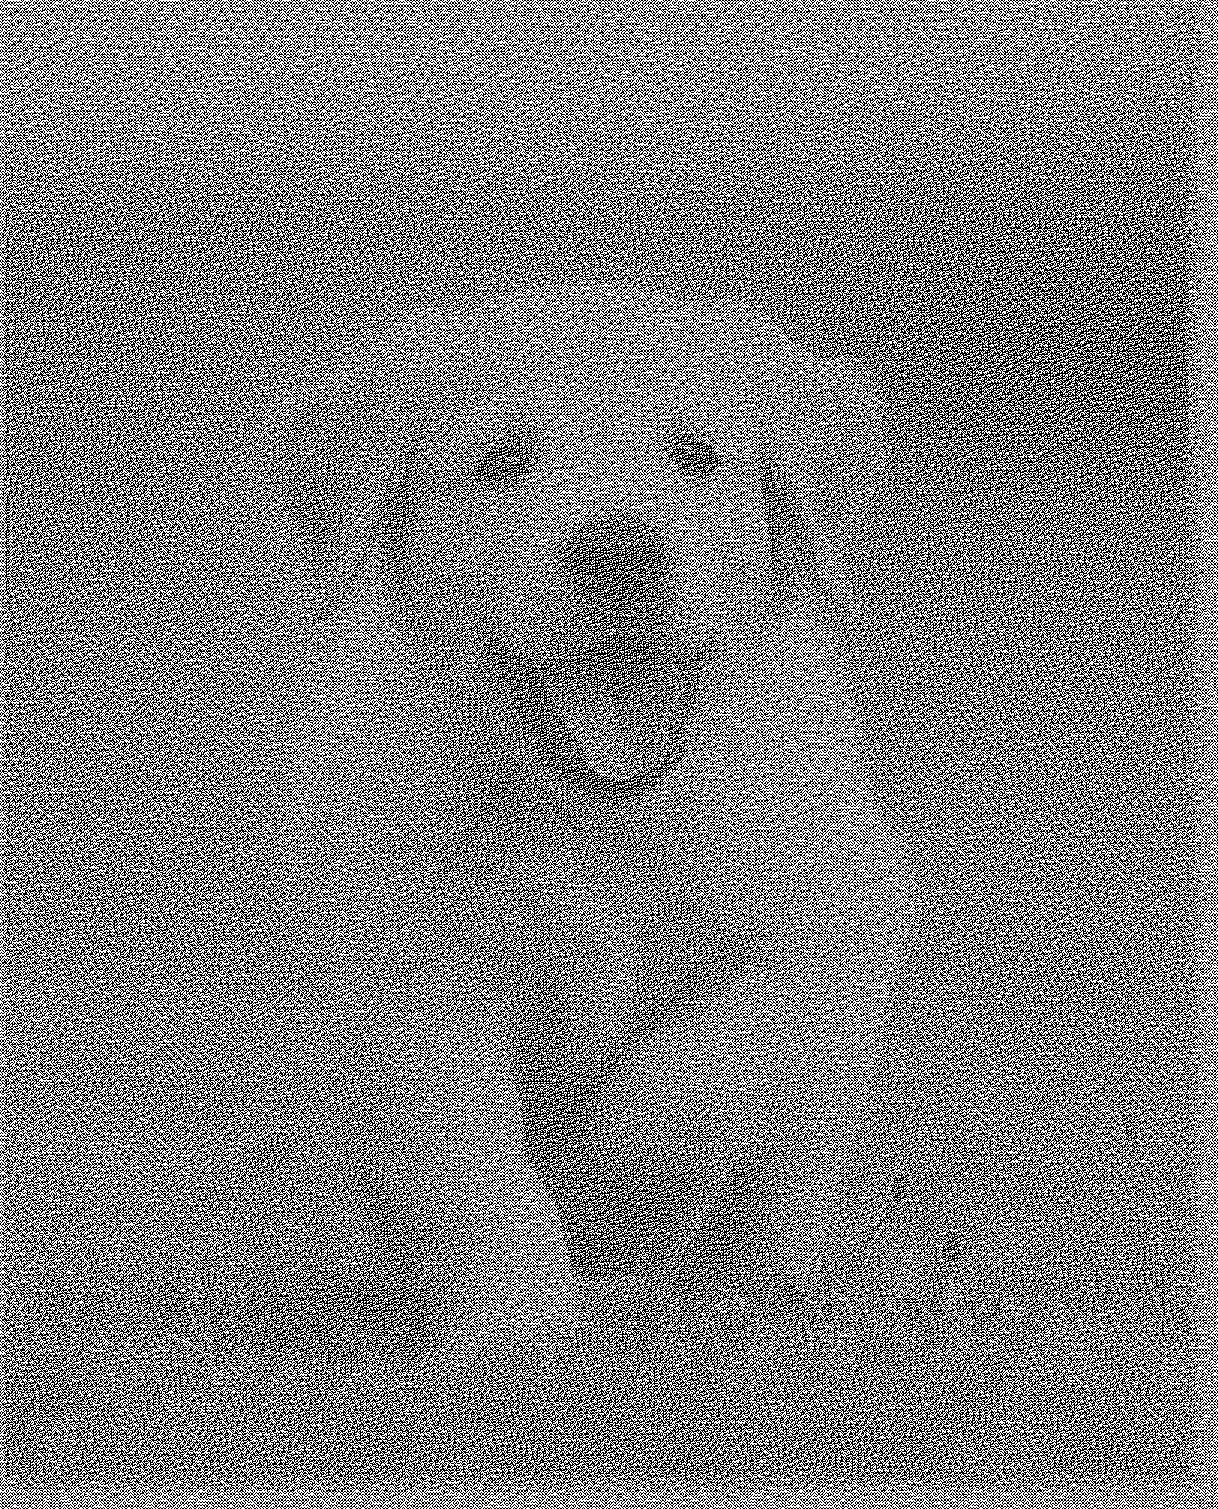
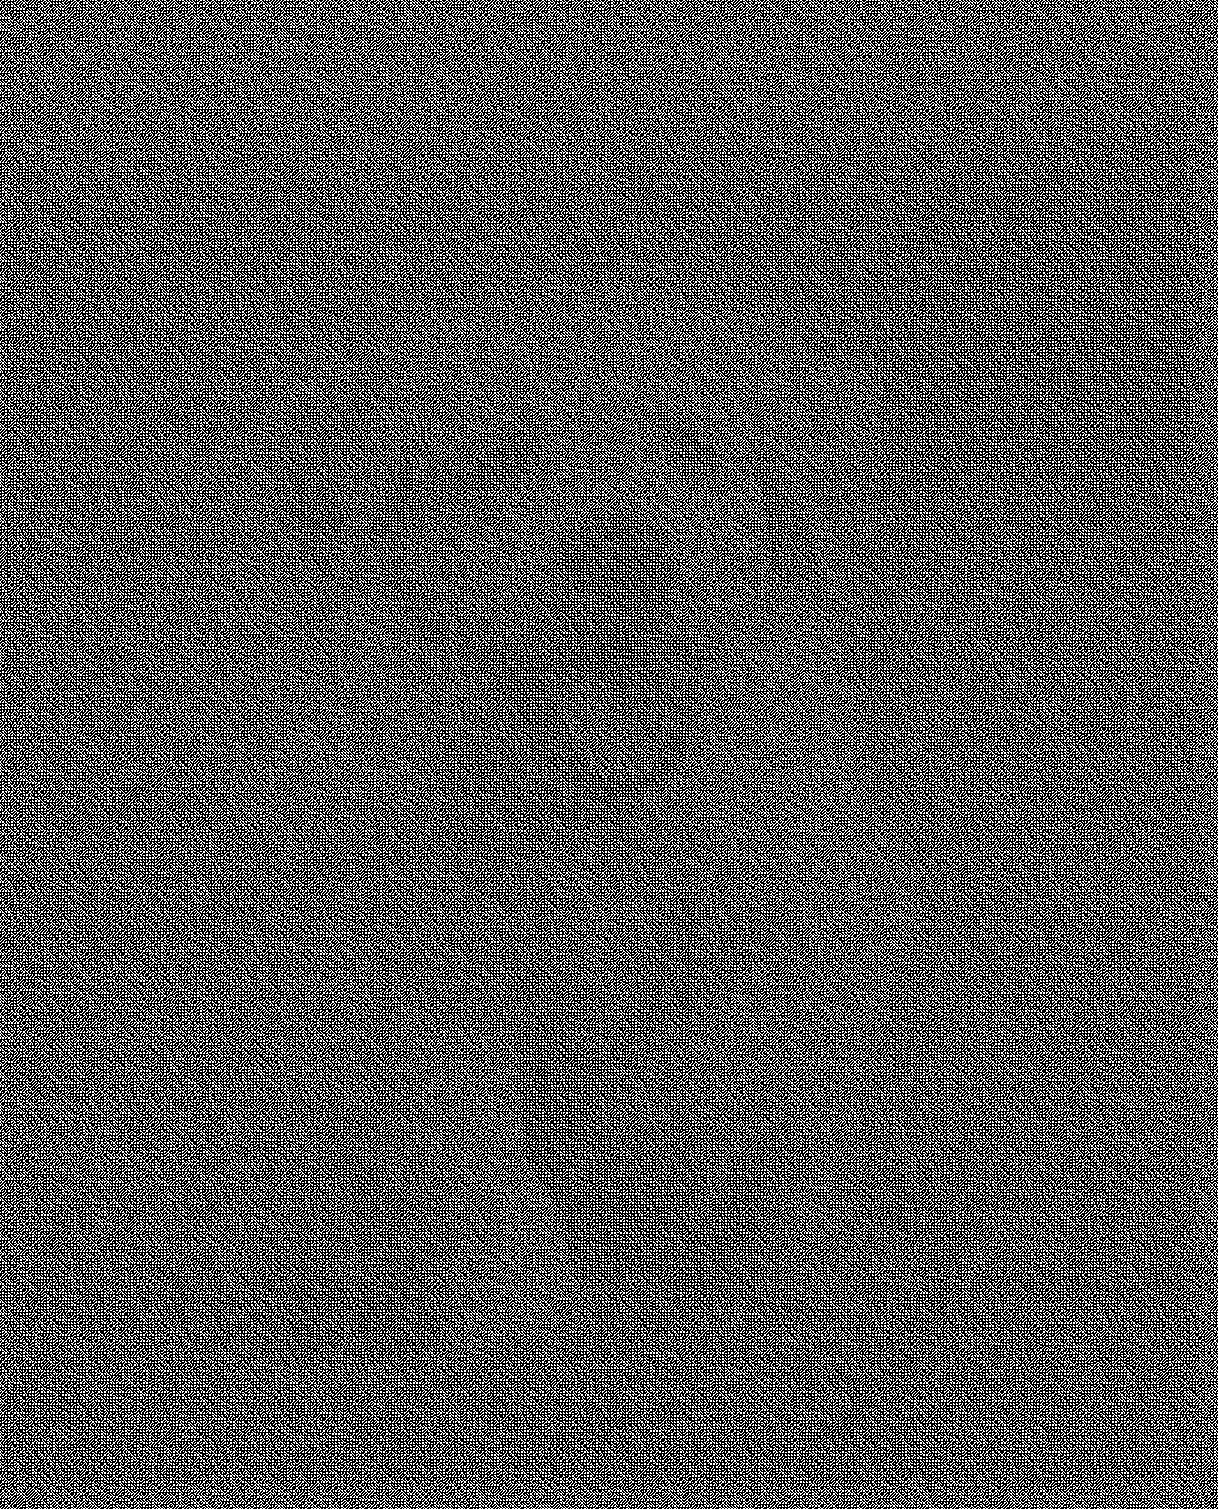
v1.0

diff --git a/my_enc.py b/my_enc.py
@@ -1,7 +1,7 @@
 from PIL import Image, ImageDraw
 import os, sys
-from random import SystemRandom
-random = SystemRandom()
+#from random import SystemRandom
+#random = SystemRandom()
 #If you want to use the more powerful PyCrypto (pip install pycrypto) then uncomment the next line and comment out the previous two lines
 #from Crypto.Random import random
 
@@ -22,8 +22,9 @@ out_filename_B=f+"_B.png"
 out_filename_C=f+"_C.png"
 
 img=img.convert('1')#convert image to 1 bit
+img.save("dog_bw.png", 'PNG')
 
-#Prepare two empty slider images for drawing
+
 width=img.size[0]*3
 height=img.size[1]*3
 
@@ -35,53 +36,33 @@ draw_A = ImageDraw.Draw(out_image_A)
 draw_B = ImageDraw.Draw(out_image_B)
 draw_C = ImageDraw.Draw(out_image_C)
 
-patternsB = [[0,0,0,0,1,1,1,0,0],[0,1,0,0,0,0,0,1,1],[1,0,1,1,0,0,0,0,0]]
-patternsW = [[0,1,0,1,0,1,1,1,0],[0,1,0,1,0,1,0,1,1],[1,1,1,1,0,1,0,1,0]]
+shares = [draw_A, draw_B, draw_C]
 
-#Cycle through pixels
+patternsB = [[1,0,1,0,0,0,0,0,1],[0,0,1,0,0,0,1,0,0],[1,0,0,0,0,0,1,0,1]]
+patternsW = [[1,0,1,0,0,0,0,0,1],[0,0,1,0,1,0,1,0,0],[1,0,0,0,1,0,1,0,1]]
+
 for x in range(0, width//3):
 	for y in range(0, height//3):
 		pixel=img.getpixel((x,y))
 		pats=[[0]]
-		if pixel == 0:
-			pats=[[0,0,0,0,1,1,1,0,0],[0,1,0,0,0,0,0,1,1],[1,0,1,1,0,0,0,0,0]]
+		if pixel != 0:
+			pats=[[1,0,1,0,0,0,0,0,1],[0,0,1,0,1,0,1,0,0],[1,0,0,0,1,0,1,0,1]]
 		else:
-			pats=[[0,1,0,1,0,1,1,1,0],[0,1,0,1,0,1,0,1,1],[1,1,1,1,0,1,0,1,0]]
+			pats=[[1,0,1,0,0,0,0,0,1],[0,0,1,0,0,0,1,0,0],[1,0,0,0,0,0,1,0,1]]
 
-		pat = random.choice(pats)
-		pats.remove(pat)
-		draw_A.point((x*3, y*3), pat[0])
-		draw_A.point((x*3+1, y*3), pat[1])
-		draw_A.point((x*3+2, y*3), pat[2])
-		draw_A.point((x*3, y*3+1), pat[3])
-		draw_A.point((x*3+1, y*3+1), pat[4])
-		draw_A.point((x*3+2, y*3+1), pat[5])
-		draw_A.point((x*3, y*3+2), pat[6])
-		draw_A.point((x*3+1, y*3+2), pat[7])
-		draw_A.point((x*3+2, y*3+2), pat[8])
-		pat = random.choice(pats)
-		pats.remove(pat)
-		draw_B.point((x*3, y*3), pat[0])
-		draw_B.point((x*3+1, y*3), pat[1])
-		draw_B.point((x*3+2, y*3), pat[2])
-		draw_B.point((x*3, y*3+1), pat[3])
-		draw_B.point((x*3+1, y*3+1), pat[4])
-		draw_B.point((x*3+2, y*3+1), pat[5])
-		draw_B.point((x*3, y*3+2), pat[6])
-		draw_B.point((x*3+1, y*3+2), pat[7])
-		draw_B.point((x*3+2, y*3+2), pat[8])
-		pat = random.choice(pats)
-		pats.remove(pat)
-		draw_C.point((x*3, y*3), pat[0])
-		draw_C.point((x*3+1, y*3), pat[1])
-		draw_C.point((x*3+2, y*3), pat[2])
-		draw_C.point((x*3, y*3+1), pat[3])
-		draw_C.point((x*3+1, y*3+1), pat[4])
-		draw_C.point((x*3+2, y*3+1), pat[5])
-		draw_C.point((x*3, y*3+2), pat[6])
-		draw_C.point((x*3+1, y*3+2), pat[7])
-		draw_C.point((x*3+2, y*3+2), pat[8])
-
+		for share in shares:
+			pat = random.choice(pats)
+			pats.remove(pat)
+			share.point((x*3, y*3), pat[0])
+			share.point((x*3+1, y*3), pat[1])
+			share.point((x*3+2, y*3), pat[2])
+			share.point((x*3, y*3+1), pat[3])
+			share.point((x*3+1, y*3+1), pat[4])
+			share.point((x*3+2, y*3+1), pat[5])
+			share.point((x*3, y*3+2), pat[6])
+			share.point((x*3+1, y*3+2), pat[7])
+			share.point((x*3+2, y*3+2), pat[8])
+		
 out_image_A.save(out_filename_A, 'PNG')
 out_image_B.save(out_filename_B, 'PNG')
 out_image_C.save(out_filename_C, 'PNG')

diff --git a/my_dec.py b/my_dec.py
@@ -1,0 +1,80 @@
+
+import cv2
+import numpy
+import os, sys
+#from PIL import Image, ImageDraw
+#import os, sys
+#import skimage                 
+#import skimage.io              
+#from skimage.io import imread 
+
+if len(sys.argv)!=3:
+	print("This takes two arguments.")
+	exit()
+
+infile1=str(sys.argv[1])
+infile2=str(sys.argv[2])
+
+if not os.path.isfile(infile1):
+	print("That file 1 does not exist.")
+	exit()
+
+if not os.path.isfile(infile2):
+	print("That file 2 does not exist.")
+	exit()
+
+img1 = cv2.imread("dog_A.png")
+img2 = cv2.imread("dog_B.png")
+img3 = cv2.imread("dog_C.png")
+img4 = cv2.imread(infile1)
+img5 = cv2.imread(infile2)
+
+#final = cv2.subtract(img2, img1)
+#final = cv2.resize(final,(r//3,c//3),interpolation=cv2.INTER_AREA)
+#final = cv2.addWeighted(img1,0.7,img2,0.7,0)
+overlap = cv2.add(img4, img5)
+overlap = cv2.add(overlap, img1)
+#r, c, x = final.shape
+#cv2.imshow('img', final)
+#cv2.waitKey(0)
+#cv2.destroyAllWindows()
+cv2.imwrite("dog_overlap.png",overlap)
+
+
+#zero = skimage.io.imread("dog_overlap.png", 1)
+#width=zero.shape[1]
+#height=zero.shape[0]
+
+#final.save("dog_final.png", 'PNG')
+
+#final1=skimage.io.imread("dog_final.png",1)
+#for h in range(final1.shape[0]):
+#	for w in range(final1.shape[1]):
+#		final1[h,w]=zero[(h*3)+1,(w*3)+1]
+
+#cv2.imwrite("dog_final.png",final1)
+#print("Done.")
+
+
+a=[]
+countx=0
+for x in overlap:#rows in the image
+	if countx%3==1:
+		b=[]
+		county=0
+		for y in x:#pixels in a row
+			if county%3==1:
+				c=[]
+				countz=0
+				for z in y:#chanels in a pixel
+					#z=0 if count==0 else z
+					c.append(z)
+					countz+=1
+				b.append(c)
+			county+=1
+		a.append(b)
+	countx+=1
+
+final=numpy.array(a)
+cv2.imwrite("dog_final.png",final)
+
